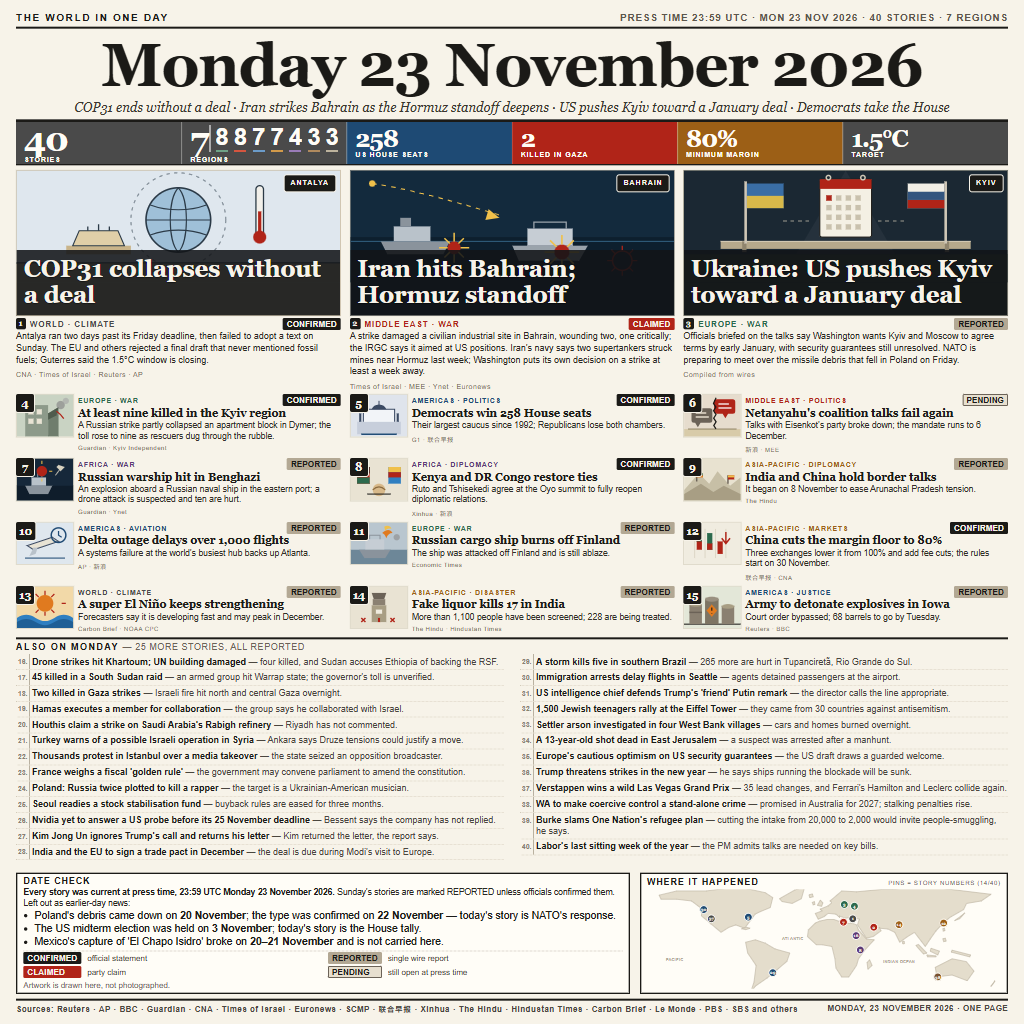
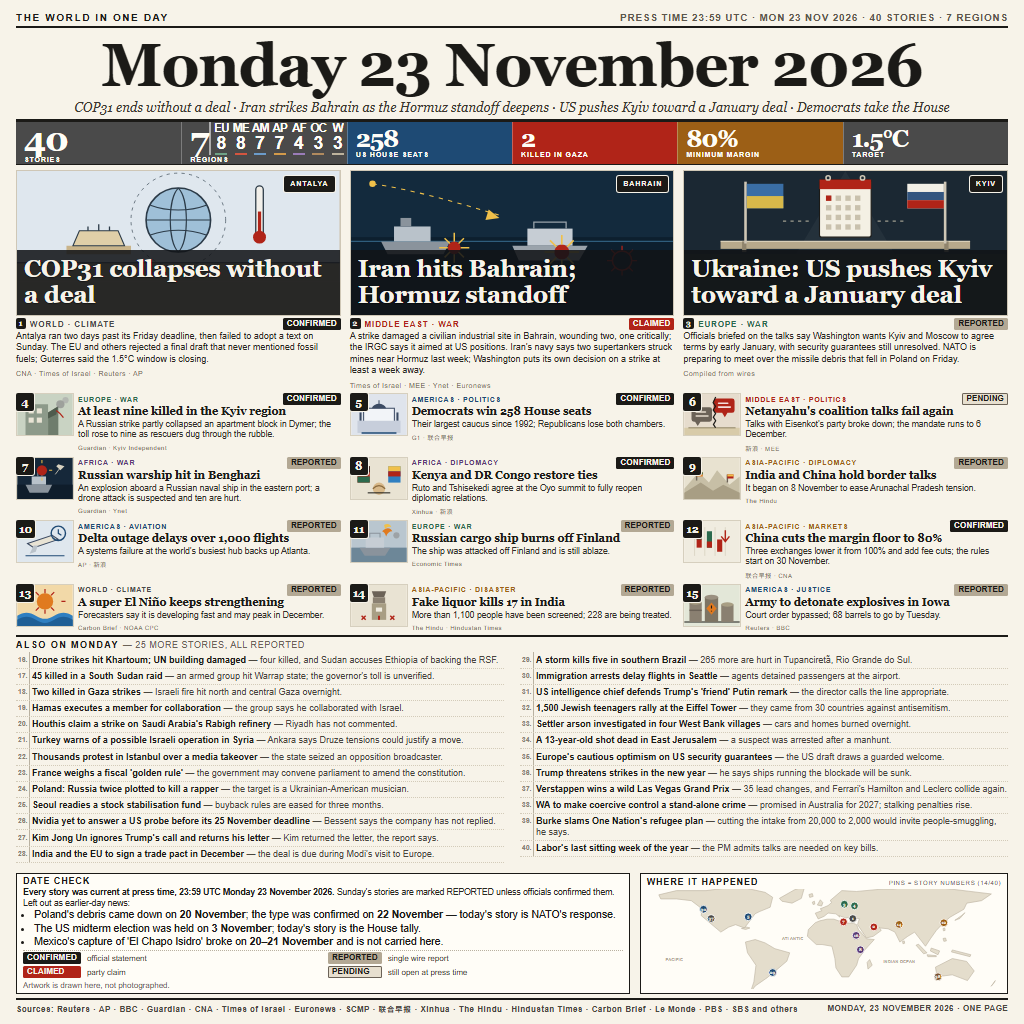
news-image-20261123: v12 - each of the seven region counts now carries its region abbreviation (EU 8, ME 8, AM 7, AP 7, AF 4, OC 3, W 3) above the digit, so a reader can check which count belongs to which region instead of only that a seven-way split exists; digits 24px -> 18px to open a 12px label 

diff --git a/design.html b/design.html
@@ -54,23 +54,40 @@
   .fig b { font-family: Georgia, "Times New Roman", serif; font-size: 24px; line-height: 1; letter-spacing: -1px; }
   .fig b.hi { font-size: 34px; }
   .fig span { font-size: 7px; line-height: 1.1; letter-spacing: .12em; font-weight: 700; }
-  /* the region split printed as seven countable numbers, not a colour bar: the same 40 stories
-     as 8+8+7+7+4+3+3, so a reader can add them to 40 and count seven regions. The digits are
-     white because the cell is dark grey — every region colour except the beige falls below 4.5:1
-     on #4a4a4a (measured 2.2–3.6:1), so the region colour is kept as the 2px block under each
-     number instead, in the same order the map dots use. Absolute, so it cannot move the 46px band.
-     Type: 24px with zero tracking and a 5px gap. 28px with -1.1px tracking left the digits 0.9px
-     apart, which reads as one seven-digit number; 24px is the size the four story figures run at.
-     Scaled to the 640 width a thumbnail is read at, the six gaps measure 4–5 blank pixel columns
-     each, so each digit stays countable. The band's 7 digits end at 338.84 against the cell's
-     343.66 right edge — inside the cell, no overlap with US HOUSE SEATS. */
-  .fig .dist { position: absolute; left: 27px; right: 3px; top: 2.5px;
-    display: flex; align-items: flex-start; gap: 5px;
+  /* the region split printed as seven named, countable numbers, not a colour bar: the same 40
+     stories as EU 8 / ME 8 / AM 7 / AP 7 / AF 4 / OC 3 / W 3, so a reader can add them to 40,
+     count seven regions, AND check which number is which region. Unnamed digits only proved
+     that some seven-way split exists; the abbreviation is what makes the split verifiable
+     rather than decorative. The digits are white because the cell is dark grey — every region
+     colour except the beige falls below 4.5:1 on #4a4a4a (measured 2.2–3.6:1), so the region
+     colour is kept as the 2px block under each number instead, in the same order the map dots
+     use. Absolute, so it cannot move the 46px band.
+     Type, measured in the rendered page: 18px digits with a 12px abbreviation above each. The
+     abbreviation is taken out of flow and centred over its digit, so it cannot widen the row;
+     the flex row is space-between, so the digits spread across the cell and the labels keep a
+     3.2–6.3px gutter instead of running together (a fixed 6px gap left only 1.0–2.9px between
+     labels, which merged at 640). 18px is not a preference, it is the ceiling: the stack is
+     12 label + 18 digit + 1 + 2 colour block = 33px, and the cell's own "REGIONS" word starts at
+     y156.34, so 19px or more would print the digits into it. Scaled to the 640 width a
+     thumbnail is read at, the labels measure 7.5px tall and stay legible while the digits stay
+     countable — at 10px the labels were 6px and read as mush. */
+  .fig .dist { position: absolute; left: 27px; right: 3px; top: 0;
+    display: flex; align-items: flex-start; justify-content: space-between; gap: 0;
     border-left: 2px solid rgba(255,255,255,.55); padding-left: 4px; }
   .fig .dist i {
+    position: relative; padding-top: 12px;
     display: flex; flex-direction: column; align-items: center; gap: 0;
-    font-style: normal; font-weight: 700; font-size: 24px; line-height: 1;
+    font-style: normal; font-weight: 700; font-size: 18px; line-height: 1;
     letter-spacing: 0; color: #fffdf7;
+  }
+  /* the region name, one line above its count. 12px is the smallest size whose two-letter label
+     still resolves after the page is scaled to 640 (~7.5px tall); the negative tracking pulls
+     each label back under its own digit so the gutters stay open. */
+  .fig .dist i em {
+    position: absolute; top: 0; left: 50%; transform: translateX(-50%);
+    white-space: nowrap;
+    font-style: normal; font-weight: 700; font-size: 12px; line-height: 1;
+    letter-spacing: -.09em; color: #fffdf7;
   }
   .fig .dist i::after { content: ""; width: 12px; height: 2px; background: var(--dc); margin-top: 1px; }
   .fig .dist .d1 { --dc: #6fa287; }
@@ -237,7 +254,7 @@
          80% MINIMUM MARGIN: story 12 ("Three exchanges lower it from 100%").
          1.5°C TARGET: story 1 (Guterres: "the 1.5°C window is closing"). -->
     <div class="fig wo"><b class="hi">40</b><span>STORIES</span></div>
-    <div class="fig wo"><b class="hi">7</b><span>REGIONS</span><div class="dist" aria-hidden="true"><i class="d1">8</i><i class="d2">8</i><i class="d3">7</i><i class="d4">7</i><i class="d5">4</i><i class="d6">3</i><i class="d7">3</i></div></div>
+    <div class="fig wo"><b class="hi">7</b><span>REGIONS</span><div class="dist" aria-hidden="true"><i class="d1"><em>EU</em>8</i><i class="d2"><em>ME</em>8</i><i class="d3"><em>AM</em>7</i><i class="d4"><em>AP</em>7</i><i class="d5"><em>AF</em>4</i><i class="d6"><em>OC</em>3</i><i class="d7"><em>W</em>3</i></div></div>
     <div class="fig am"><b>258</b><span>US HOUSE SEATS</span></div>
     <div class="fig me"><b>2</b><span>KILLED IN GAZA</span></div>
     <div class="fig as"><b>80%</b><span>MINIMUM MARGIN</span></div>
